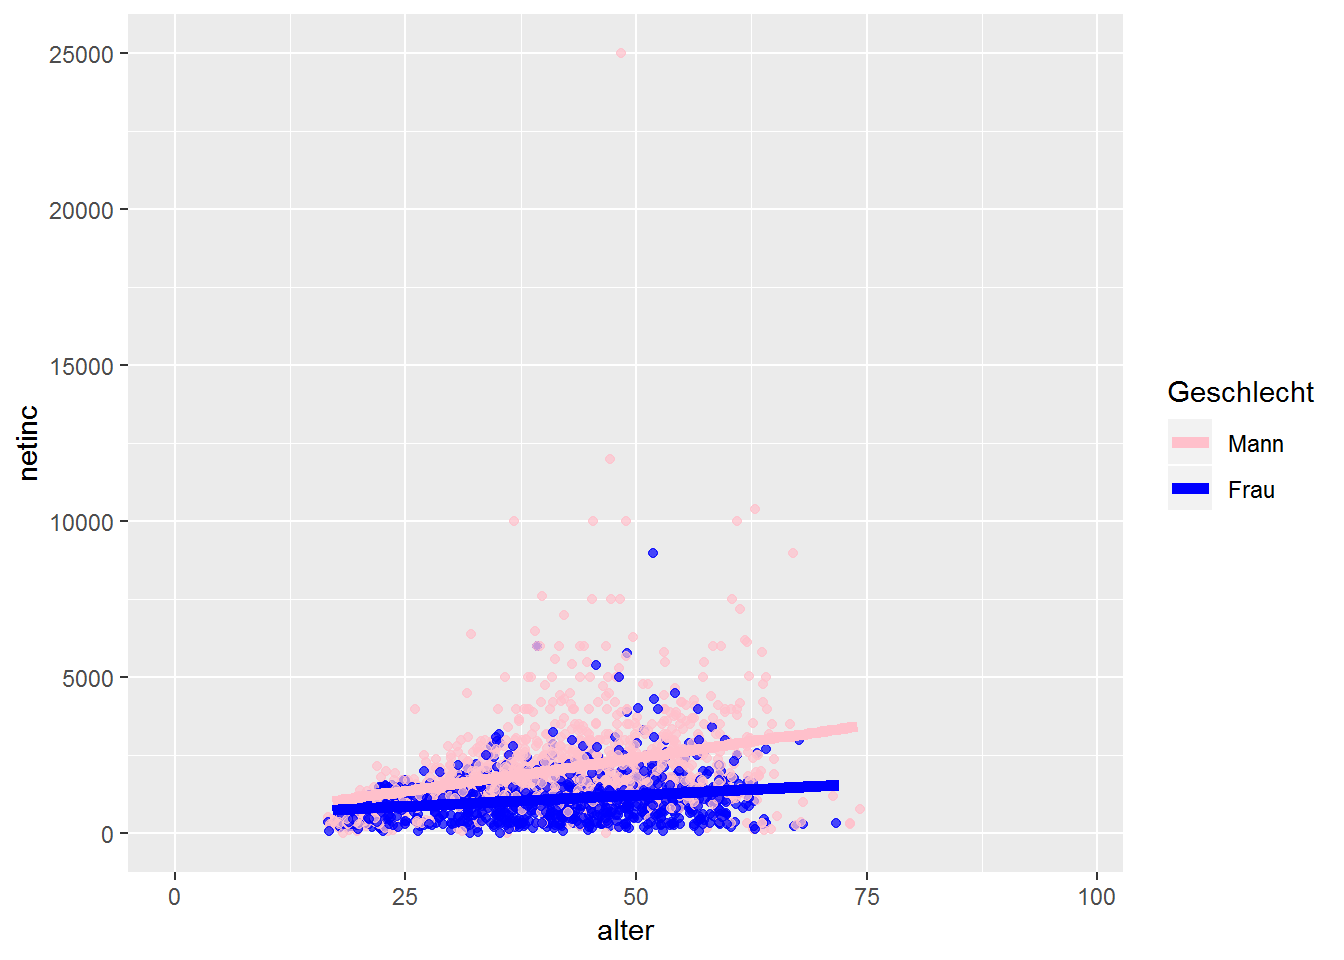
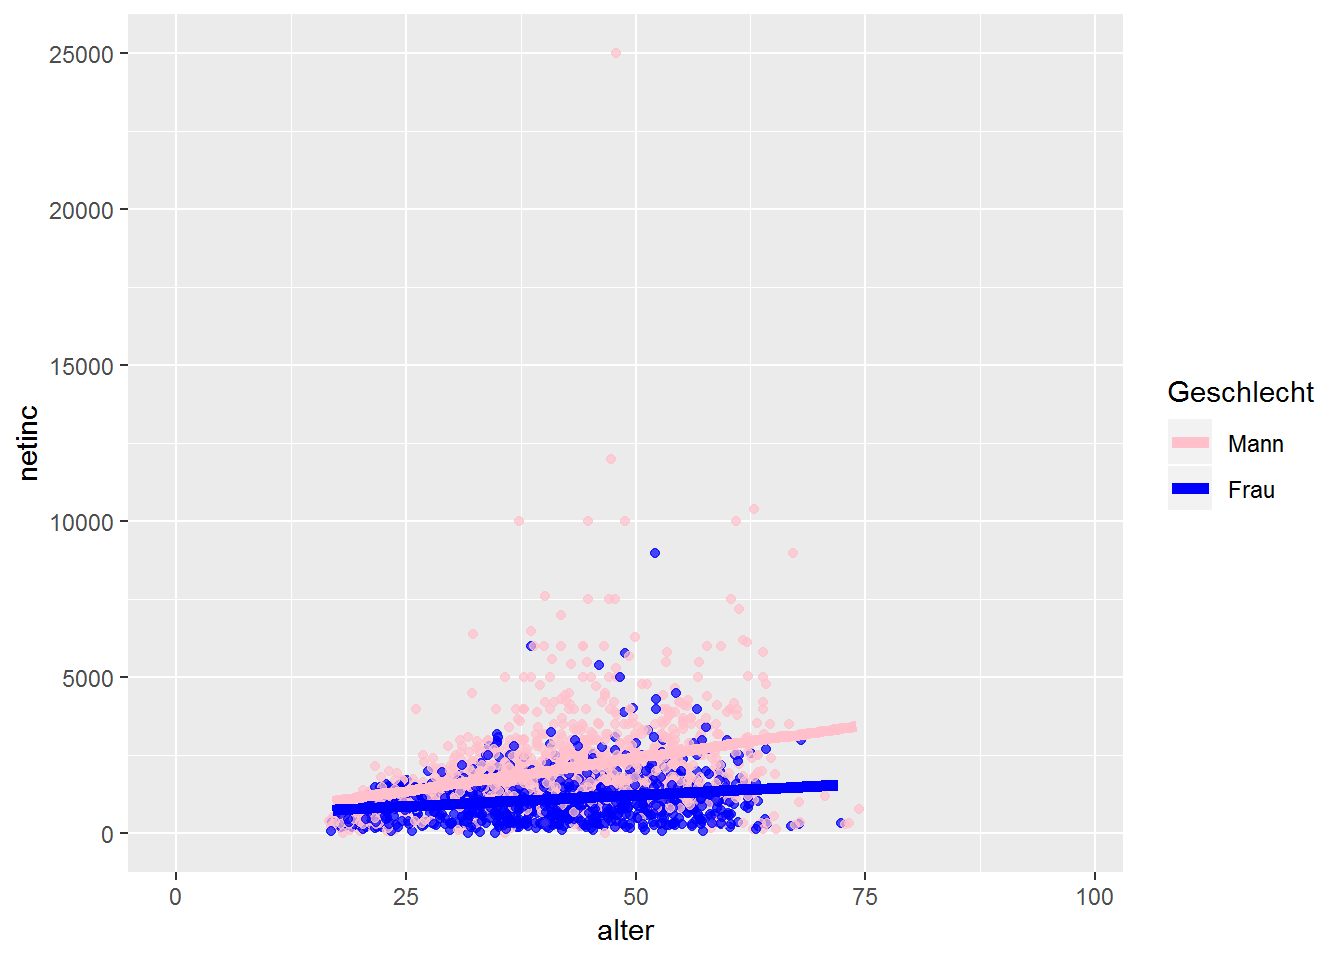
still playing with jekyll

diff --git a/docs/datamanagement.html b/docs/datamanagement.html
@@ -499,12 +499,12 @@ econ$netinc = recode(econ$tp7602,&quot;-3=NA;-2=NA;-1=NA&quot;)
 econ_data &lt;- econ[,c(&quot;netinc&quot;,&quot;alter&quot;,&quot;sex&quot;,&quot;contract&quot;,&quot;actual&quot;,&quot;trust&quot;,&quot;rely&quot;)]
 head(econ_data)</code></pre>
 <pre><code>##       netinc alter      sex contract actual trust rely
-## 6894    4180    58 männlich     38.5   45.0     2    2
-## 2767      NA     7 männlich       NA     NA    NA   NA
-## 8001      NA    11 männlich       NA     NA    NA   NA
-## 7428      NA    51 männlich     37.5   42.5     3    2
-## 13929     NA     9 männlich       NA     NA    NA   NA
-## 8000    1982    47 männlich     38.5   38.5     4    2</code></pre>
+## 13585     NA     7 weiblich       NA     NA    NA   NA
+## 6450      NA    23 weiblich       NA     NA     3    2
+## 797       NA    81 männlich       NA     NA     2    2
+## 5212      NA     6 weiblich       NA     NA    NA   NA
+## 13906     NA     9 weiblich       NA     NA    NA   NA
+## 3091    2500    36 männlich       39     40     2    3</code></pre>
 <pre class="r"><code># Delete NAs
 econ_data &lt;- na.omit(econ_data)
 
@@ -514,7 +514,7 @@ hist(econ$netinc)</code></pre>
 <p><img src="datamanagement_files/figure-html/unnamed-chunk-2-1.png" width="672" /></p>
 <pre class="r"><code>quantile(econ_data$netinc)</code></pre>
 <pre><code>##    0%   25%   50%   75%  100% 
-##     0   850  1350  1900 10388</code></pre>
+##     0   800  1388  1900 10000</code></pre>
 <pre class="r"><code>econ_data$inc_kat &lt;- NA
 econ_data$inc_kat [econ_data$netinc &lt; quantile(econ_data$netinc)[2]] &lt;- &quot;Q1&quot;
 econ_data$inc_kat [econ_data$netinc &gt;= quantile(econ_data$netinc)[2] &amp; econ_data$netinc &lt; quantile(econ_data$netinc)[3]] &lt;- &quot;Q2&quot;
@@ -524,7 +524,7 @@ econ_data$inc_kat [econ_data$netinc &gt;= quantile(econ_data$netinc)[4] ] &lt;- 
 table(econ_data$inc_kat)</code></pre>
 <pre><code>## 
 ##  Q1  Q2  Q3  Q4 
-## 427 426 417 439</code></pre>
+## 423 428 410 442</code></pre>
 </div>
 <div id="advanced-dm-the-tidyverse" class="section level1">
 <h1><span class="header-section-number">3</span> Advanced DM: The tidyverse</h1>
@@ -538,12 +538,12 @@ table(econ_data$inc_kat)</code></pre>
 
 head(econ_data)</code></pre>
 <pre><code>##   netinc alter      sex contract actual trust rely inc_kat alter_squared
-## 1   4180    58 männlich     38.5   45.0     2    2      Q4          3364
-## 2   1982    47 männlich     38.5   38.5     4    2      Q4          2209
-## 3   2600    43 weiblich     40.0   60.0     3    1      Q4          1849
-## 4   1100    44 weiblich     30.0   32.0     2    3      Q2          1936
-## 5   1600    51 männlich     40.0   40.0     2    3      Q3          2601
-## 6   1400    48 männlich     37.5   40.0     2    2      Q3          2304</code></pre>
+## 1   2500    36 männlich     39.0   40.0     2    3      Q4          1296
+## 2   1000    41 männlich     40.0   50.0     3    2      Q2          1681
+## 3   1715    39 männlich     38.5   38.5     2    3      Q3          1521
+## 4   1900    38 männlich     40.0   60.0     2    2      Q4          1444
+## 5   1292    32 weiblich     40.0   45.0     2    3      Q2          1024
+## 6    600    48 weiblich     30.0   32.0     2    3      Q1          2304</code></pre>
 </div>
 <div id="summarise" class="section level2">
 <h2><span class="header-section-number">3.2</span> Summarise</h2>
@@ -551,8 +551,8 @@ head(econ_data)</code></pre>
 <pre class="r"><code>econ_data %&gt;% 
   summarise(mean = mean(alter,na.rm = T),
             sd = sd(alter,na.rm = T))</code></pre>
-<pre><code>##     mean       sd
-## 1 40.677 11.45569</code></pre>
+<pre><code>##       mean     sd
+## 1 40.56841 11.564</code></pre>
 </div>
 <div id="group_by" class="section level2">
 <h2><span class="header-section-number">3.3</span> group_by</h2>
@@ -564,7 +564,7 @@ head(econ_data)</code></pre>
 <pre><code>## # A tibble: 1 x 2
 ##    mean    sd
 ##   &lt;dbl&gt; &lt;dbl&gt;
-## 1  40.7  11.5</code></pre>
+## 1  40.6  11.6</code></pre>
 </div>
 </div>
 
